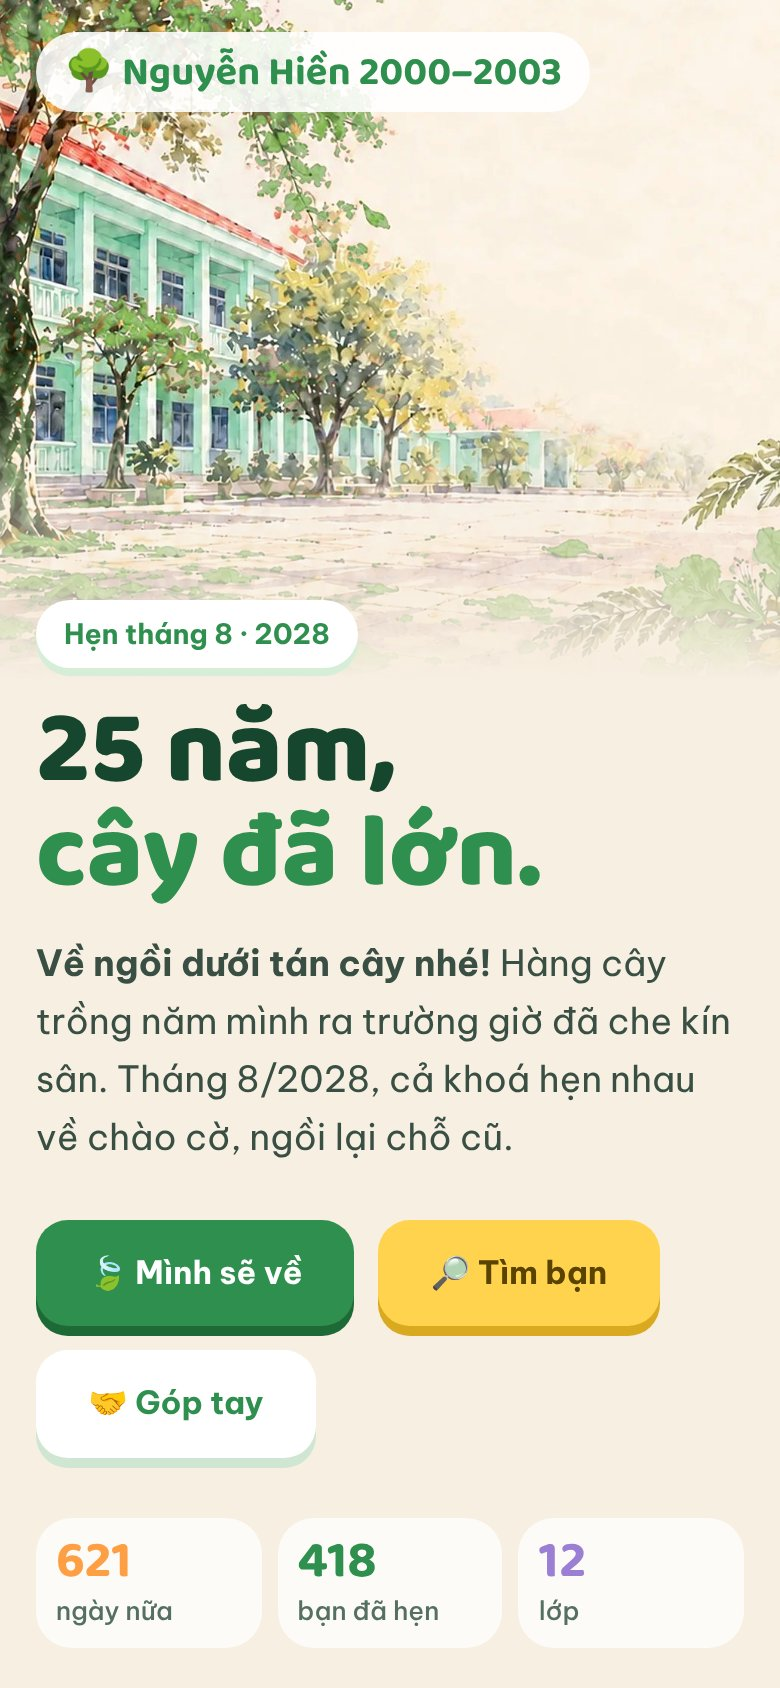
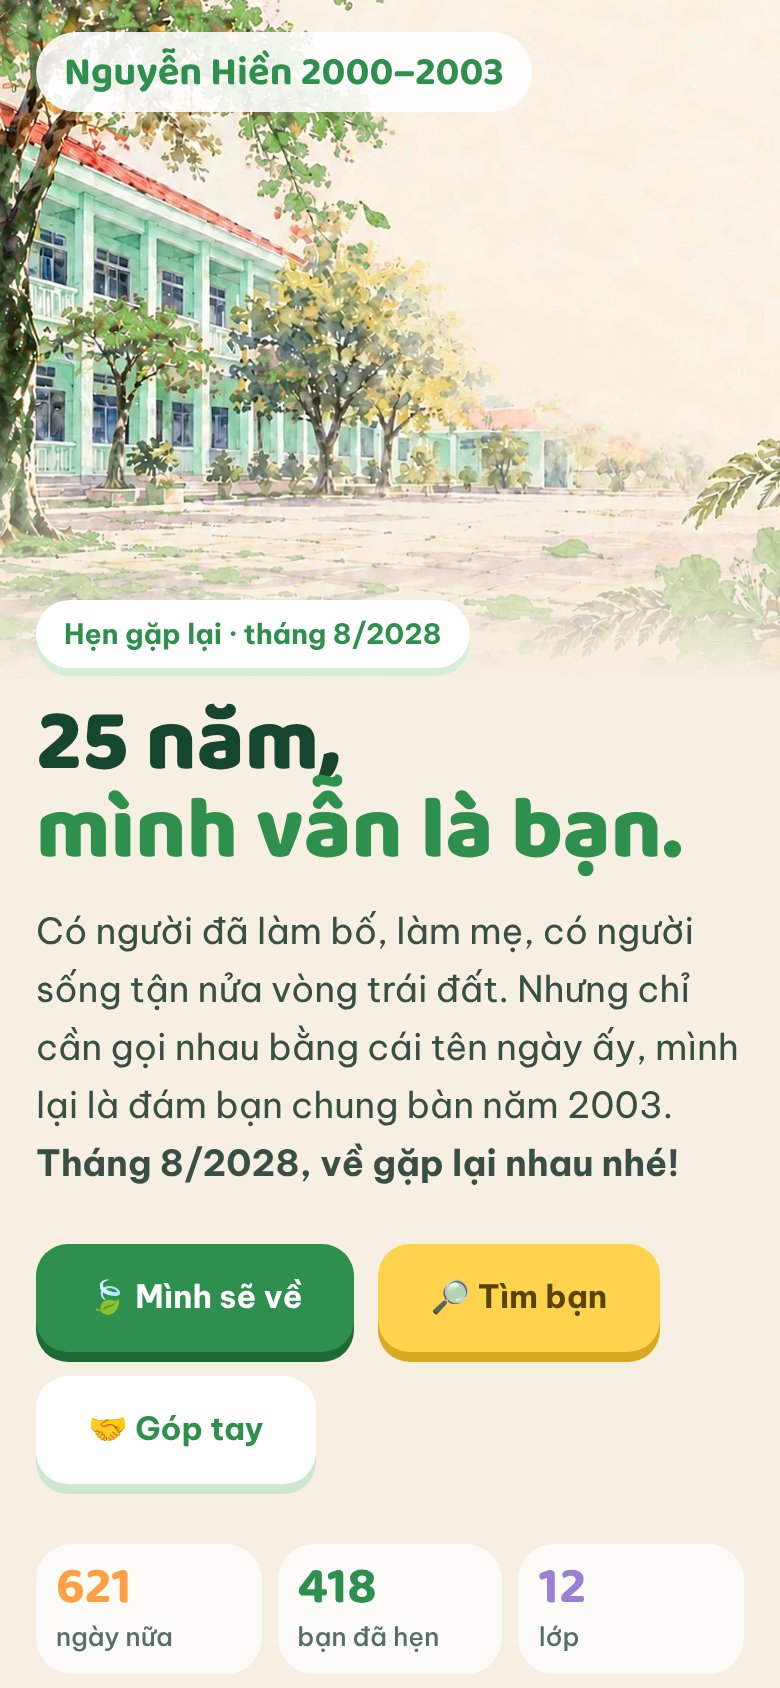
Kết nối 2028: đổi chủ đề sang tình bạn sau 25 năm gặp lại
Claude-Session: https://claude.ai/code/session_01Y1ZWh7bFy81zQtocY5fDHA

diff --git a/thiet-ke/ket-noi-2028/xanh.html b/thiet-ke/ket-noi-2028/xanh.html
@@ -1,5 +1,5 @@
 <!doctype html><html lang="vi"><head><meta charset="utf-8"><meta name="viewport" content="width=device-width,initial-scale=1">
-<title>Kết nối 2028 – Tán cây</title>
+<title>Kết nối 2028 – Bạn hiền</title>
 <link href="https://fonts.googleapis.com/css2?family=Baloo+2:wght@500;600;700;800&family=Be+Vietnam+Pro:wght@400;500;600;700&display=swap" rel="stylesheet">
 <style>
 :root{--la:#2F8F4E;--la2:#5DB860;--non:#A9D86E;--troi:#BDE7F7;--troi2:#E9F7FD;--nang:#FFD34E;--cam:#FF9F43;--tim:#9B7FD4;--hong:#FF8FA3;--go:#7A5236;--dat:#F3FAEE;--chu:#1F3B2D;--phu:#557063}
@@ -131,8 +131,8 @@ a{color:inherit;text-decoration:none}
 .hero2 .anh{position:absolute;inset:0;background:url(san-truong.jpg) left bottom/cover no-repeat}
 .hero2 .anh:after{content:'';position:absolute;inset:0;background:linear-gradient(90deg,rgba(247,239,226,0) 30%,rgba(247,239,226,.55) 52%,rgba(247,239,226,.92) 66%),linear-gradient(0deg,var(--dat) 0,rgba(243,250,238,0) 16%)}
 .hero2 .w{position:relative;z-index:2;min-height:min(820px,100vh);display:flex;justify-content:flex-end;align-items:center;padding-top:80px}
-.chu2{width:min(520px,46%)}
-.hero2 h1{font-size:clamp(50px,6vw,88px);line-height:1;font-weight:800;color:#17462E;margin:16px 0 14px}
+.chu2{width:min(580px,48%)}
+.hero2 h1{font-size:clamp(46px,5.2vw,78px);line-height:1;font-weight:800;color:#17462E;margin:16px 0 14px}
 .hero2 h1 span{color:var(--la)}
 .hero2 p{font-size:18px;color:#3A4F44}
 .pol{position:absolute;background:#fff;padding:10px 10px 34px;box-shadow:0 18px 30px -12px rgba(40,50,30,.45);z-index:3}
@@ -146,8 +146,13 @@ a{color:inherit;text-decoration:none}
  .hero2 .anh{height:340px;bottom:auto;background-position:30% 100%}
  .hero2 .anh:after{background:linear-gradient(0deg,#F7EFE2 0,rgba(247,239,226,0) 40%)}
  .hero2 .w{display:block;padding-top:300px;padding-bottom:40px;min-height:0}
- .chu2{width:auto}.hero2 h1{font-size:52px}
+ .chu2{width:auto}.hero2 h1{font-size:44px}
 }
+.lopb{background:#fff;border-radius:22px;padding:14px 14px 8px;border-top:6px solid var(--c);box-shadow:0 6px 0 #DDEFD9}
+.lopb .tl{display:flex;justify-content:space-between;align-items:baseline}.lopb b{font-family:'Baloo 2';font-size:24px;color:#17462E}.lopb .tl span{font-weight:700;color:var(--phu);font-size:14px}
+.lopb svg{width:100%;height:auto;display:block;margin-top:4px}
+.vuon{align-items:stretch}
+@media(max-width:820px){.vuon{grid-template-columns:repeat(2,1fr)!important}}
 </style></head><body><div id="app"></div>
 <script>
 var M=new URLSearchParams(location.search).get('m')||'pc';
@@ -180,6 +185,10 @@ function chau(l,i){var h=40+l[1]*2.4,c=MAU12[i];sd=i*13+3;
  s+='<circle cx="50" cy="'+(172-h-8)+'" r="11" fill="'+c+'"/><circle cx="50" cy="'+(172-h-8)+'" r="4.5" fill="#FFF4B8"/>';
  s+='<path d="M24 168 H76 L70 200 H30Z" fill="'+c+'"/><rect x="20" y="162" width="60" height="10" rx="4" fill="'+c+'"/><rect x="20" y="162" width="60" height="10" rx="4" fill="#fff" opacity=".25"/></svg>';
  return '<div class="chau"><div class="ca">'+s+'</div><b>'+l[0]+'</b><small>'+l[1]+' bạn</small></div>';}
+function lopBan(l,i){var c=MAU12[i],n=Math.round(l[1]/4),s='<svg viewBox="0 0 120 92">';sd=i*7+1;
+ for(var k=0;k<n;k++){var col=k%5,row=Math.floor(k/5),x=14+col*23+(row%2?11:0),y=78-row*22,m=[c,'#5DB860','#4DB6E8','#FFD34E','#9B7FD4','#FF8FA3'][Math.floor(rd()*6)];
+  s+='<path d="M'+(x-10)+' '+(y+12)+' Q'+x+' '+(y-4)+' '+(x+10)+' '+(y+12)+'Z" fill="'+m+'"/><circle cx="'+x+'" cy="'+(y-6)+'" r="7" fill="#F5D2B4"/><path d="M'+(x-7)+' '+(y-7)+' Q'+x+' '+(y-17)+' '+(x+7)+' '+(y-7)+'" fill="#3B2A20"/>';}
+ return '<div class="lopb" style="--c:'+c+'"><div class="tl"><b>'+l[0]+'</b><span>'+l[1]+'/45</span></div>'+s+'</svg></div>';}
 function banDo(){
  var vn='M150 18 L178 30 L196 58 L214 72 L236 92 L222 110 L204 120 L196 146 L208 176 L226 206 L246 232 L262 256 L280 284 L296 316 L304 352 L300 390 L284 418 L258 438 L230 452 L202 472 L176 496 L150 512 L132 500 L146 476 L172 456 L200 436 L230 410 L246 380 L250 346 L240 312 L222 284 L204 258 L184 232 L166 206 L150 176 L138 150 L124 124 L104 100 L80 82 L66 60 L92 46 L122 36Z';
  var dd=[[188,120,14,'#9B7FD4'],[262,262,186,'#FF9F43'],[206,462,58,'#FF8FA3'],[300,356,7,'#4DB6E8'],[226,206,5,'#4DB6E8'],[284,300,6,'#4DB6E8'],[166,500,3,'#4DB6E8'],[284,404,4,'#4DB6E8']];
@@ -188,35 +197,35 @@ function banDo(){
  dd.forEach(function(d){var r=Math.max(6,Math.sqrt(d[2])*1.8);s+='<circle cx="'+d[0]+'" cy="'+d[1]+'" r="'+f(r)+'" fill="'+d[3]+'" stroke="#fff" stroke-width="4"/>';});
  s+='<text x="350" y="200" font-family="Baloo 2" font-size="20" font-weight="700" fill="#4DA3C9">Biển Đông</text><path d="M340 230 q15 -8 30 0 t30 0 M350 250 q15 -8 30 0 t30 0" stroke="#7FC4E0" stroke-width="3" fill="none" stroke-linecap="round"/>';
  return s+'</svg>';}
-var VIEC=[['📷','Gom ảnh thời đi học','Quét ảnh cũ, gửi về kho ảnh chung.','4 bạn đã nhận','#FFE7C7'],['🎬','Làm phim 25 năm','Dựng phim ngắn “Ngày ấy – Bây giờ”.','2 bạn đã nhận','#E5DBFA'],['🏫','Xin buổi chào cờ','Làm việc với trường cho sáng thứ Hai.','1 bạn đã nhận','#D9F0FB'],['🌳','Trồng cây cho khoá','Chọn chỗ, chọn cây, gắn biển tên khoá.','Chưa ai nhận','#DFF3D6'],['🔎','Tìm bạn còn thiếu','Mỗi lớp nhận tìm 3 bạn chưa liên lạc.','5 bạn đã nhận','#FFE0E6'],['📒','Sổ vàng viết tay','Mỗi người một trang, đóng thành cuốn.','Chưa ai nhận','#FFF3C2']];
+var VIEC=[['📷','Gom ảnh thời đi học','Quét ảnh cũ, gửi về kho ảnh chung.','4 bạn đã nhận','#FFE7C7'],['🎬','Làm phim 25 năm','Dựng phim ngắn “Ngày ấy – Bây giờ”.','2 bạn đã nhận','#E5DBFA'],['🏫','Xin buổi chào cờ','Làm việc với trường cho sáng thứ Hai.','1 bạn đã nhận','#D9F0FB'],['☕','Cà phê gặp mặt lớp','Hẹn một buổi gặp nhỏ của lớp trước ngày lớn.','Chưa ai nhận','#DFF3D6'],['🔎','Tìm bạn còn thiếu','Mỗi lớp nhận tìm 3 bạn chưa liên lạc.','5 bạn đã nhận','#FFE0E6'],['📒','Sổ vàng viết tay','Mỗi người một trang, đóng thành cuốn.','Chưa ai nhận','#FFF3C2']];
 function pc(){var h='';
-h+='<header class="dau"><div class="w"><span class="ten">🌳 Nguyễn Hiền 2000–2003</span><nav><a>Trang chủ</a><a>Các lớp</a><a>Kỷ yếu</a><a>Hình ảnh</a><a>Hoạt động</a><a class="on">Kết nối</a></nav></div></header>';
-h+='<section class="hero2"><div class="anh"></div><div class="w"><div class="chu2"><span class="nhan">Hẹn tháng 8 · 2028</span><h1>25 năm,<br><span>cây đã lớn.</span></h1>'+
- '<p><b>Về ngồi dưới tán cây nhé!</b> Hàng cây trồng năm mình ra trường giờ đã che kín sân. Tháng 8/2028, cả khoá hẹn nhau về chào cờ, ngồi lại chỗ cũ.</p>'+
+h+='<header class="dau"><div class="w"><span class="ten">Nguyễn Hiền 2000–2003</span><nav><a>Trang chủ</a><a>Các lớp</a><a>Kỷ yếu</a><a>Hình ảnh</a><a>Hoạt động</a><a class="on">Kết nối</a></nav></div></header>';
+h+='<section class="hero2"><div class="anh"></div><div class="w"><div class="chu2"><span class="nhan">Hẹn gặp lại · tháng 8/2028</span><h1>25 năm,<br><span>mình vẫn là bạn.</span></h1>'+
+ '<p>Có người đã làm bố, làm mẹ, có người sống tận nửa vòng trái đất. Nhưng chỉ cần gọi nhau bằng cái tên ngày ấy, mình lại là đám bạn chung bàn năm 2003. <b>Tháng 8/2028, về gặp lại nhau nhé!</b></p>'+
  '<div class="nuts"><a class="n xanh">🍃 Mình sẽ về</a><a class="n vang">🔎 Tìm bạn</a><a class="n trang">🤝 Góp tay</a></div>'+
  '<div class="so3"><div><b>621</b>ngày nữa</div><div><b>418</b>bạn đã hẹn</div><div><b>12</b>lớp</div></div></div>'+
- '<div class="pol p1"><img src="anh-1.jpg"><span>Lớp mình, ngày ấy</span></div><div class="pol p2"><img src="anh-2.jpg"><span>Hẹn 2028 nhé!</span></div></div></section>';
-h+='<section class="sec"><div class="w"><div class="td"><span class="nhan">🌱 Vườn 12 lớp</span><h2>Lớp nào cây cao nhất?</h2><p>Mỗi bạn ghi tên, cây của lớp mình mọc thêm một đốt. Chưa cần chắc chắn – cứ hẹn trước đã.</p></div><div class="vuon">';
-LOP.forEach(function(l,i){h+=chau(l,i)});
+ '<div class="pol p1"><img src="anh-1.jpg"><span>Ngày ấy, chung bàn</span></div><div class="pol p2"><img src="anh-2.jpg"><span>Hẹn ngày gặp lại!</span></div></div></section>';
+h+='<section class="sec"><div class="w"><div class="td"><span class="nhan">👋 Điểm danh</span><h2>Lớp nào về đông đủ nhất?</h2><p>Mỗi bạn ghi tên là lớp mình có thêm một gương mặt quen. Chưa cần chắc chắn – cứ hẹn trước đã.</p></div><div class="vuon">';
+LOP.forEach(function(l,i){h+=lopBan(l,i)});
 h+='</div><div class="dk"><div class="o">Họ và tên</div><div class="o">Lớp</div><div class="chip"><span class="on">✅ Chắc chắn</span><span>🤔 Có thể</span><span>✈ Ở xa, sẽ cố</span></div><a class="n xanh">Ghi tên</a></div>'+
  '<div class="thieu"><span>12/6 còn thiếu 9 bạn</span><span>12/3 còn thiếu 8 bạn</span><span>12/5 còn thiếu 6 bạn</span><span style="background:#DFF3D6;color:var(--la)">Giúp tìm</span></div></div></section>';
-h+='<section class="sec bd"><div class="w"><div>'+banDo()+'</div><div><div class="td"><span class="nhan" style="color:#2E7FB0">🗺 Bạn bè ở đâu</span><h2>Rễ ở Đà Nẵng, cành vươn khắp nơi</h2><p>Bấm một chấm để xem ai đang sống ở đó.</p></div>'+
+h+='<section class="sec bd"><div class="w"><div>'+banDo()+'</div><div><div class="td"><span class="nhan" style="color:#2E7FB0">🗺 Bạn bè ở đâu</span><h2>Mỗi đứa một phương, vẫn chung một nhóm</h2><p>Bấm một chấm để xem ai đang ở đó – biết đâu bạn cũ ở ngay gần nhà.</p></div>'+
  '<div class="tp"><div><i style="background:#FFE7C7">🏖</i><span>Đà Nẵng</span><b>186</b></div><div><i style="background:#FFE0E6">🌆</i><span>TP. Hồ Chí Minh</span><b>58</b></div><div><i style="background:#E5DBFA">🏯</i><span>Hà Nội</span><b>14</b></div></div>'+
  '<div class="xa"><span>🇦🇺 Úc 5</span><span>🇺🇸 Mỹ 4</span><span>🇯🇵 Nhật 3</span><span>🇩🇪 Đức 2</span><span>🇸🇬 Singapore 2</span></div></div></div></section>';
 h+='<section class="sec"><div class="w"><div class="td"><span class="nhan">🤝 Góp tay</span><h2>Những việc cần người</h2><p>Không cần góp tiền – chọn một việc vừa sức, Ban liên lạc sẽ nhắn khi tới lúc.</p></div><div class="viec">';
 VIEC.forEach(function(v){h+='<div class="v" style="background:'+v[4]+'"><div class="ic">'+v[0]+'</div><h3>'+v[1]+'</h3><p>'+v[2]+'</p><div class="ft"><span>'+v[3]+'</span><a>'+(v[3][0]=='C'?'Mình nhận':'Nhận cùng')+'</a></div></div>'});
 h+='</div></div></section>';
-h+='<section class="sec thu"><div class="w"><div class="td"><span class="nhan" style="color:#B07800">✉ Thư gửi 2028</span><h2>Viết cho mình của hai năm sau</h2><p>Thư được niêm phong, không ai đọc được cho tới ngày cả khoá cùng mở – dưới tán cây.</p><div class="dem"><b>127</b> lá thư đang chờ</div><a class="n xanh">Viết thư</a></div>'+
- '<div><div class="phong"><span class="tem">25</span><svg class="la" width="80" height="80" viewBox="0 0 80 80"><circle cx="40" cy="40" r="34" fill="#5DB860"/><path d="M26 52 C28 34 40 24 56 24 C56 40 46 52 28 54Z" fill="#fff"/><path d="M28 52 L48 32" stroke="#5DB860" stroke-width="2.5"/></svg></div></div></div></section>';
+h+='<section class="sec thu"><div class="w"><div class="td"><span class="nhan" style="color:#B07800">✉ Thư gửi 2028</span><h2>Gửi người bạn bạn nhớ nhất</h2><p>Viết cho cậu bạn cùng bàn, cô bạn thân ngày ấy. Thư được niêm phong, tới ngày gặp lại mới trao tận tay.</p><div class="dem"><b>127</b> lá thư đang chờ</div><a class="n xanh">Viết thư</a></div>'+
+ '<div><div class="phong"><span class="tem">25</span><svg class="la" width="80" height="80" viewBox="0 0 80 80"><circle cx="40" cy="40" r="34" fill="#FF8FA3"/><path d="M40 56 C22 44 22 30 31 27 C36 25 39 28 40 31 C41 28 44 25 49 27 C58 30 58 44 40 56Z" fill="#fff"/></svg></div></div></div></section>';
 h+='<section class="sec"><div class="w hai"><div class="khung"><h2>🗳 Chọn ngày hẹn</h2>'+
  [['Thứ Hai 14/8/2028 – chào cờ',46,'#C9EBC0'],['Chủ nhật 13/8/2028',31,'#FFE7A8'],['Thứ Bảy 19/8/2028',23,'#E5DBFA']].map(function(x){return '<div class="lc"><i style="width:'+x[1]+'%;background:'+x[2]+'"></i><span>'+x[0]+'</span><b>'+x[1]+'%</b></div>'}).join('')+'<p style="color:var(--phu);font-size:14px">213 bạn đã chọn · đóng ngày 30/11</p></div>'+
  '<div class="khung"><h2>📞 Ban liên lạc</h2>'+[['H','Lê Trung Hiếu','Trưởng ban','#FF9F43'],['T','Hoàng Diệu Thúy','Thư ký','#9B7FD4'],['M','Nguyễn Thị Tuyết Mai','Liên lạc các lớp','#4DB6E8']].map(function(n){return '<div class="ng"><span class="a" style="background:'+n[3]+'">'+n[0]+'</span><span><b>'+n[1]+'</b><small>'+n[2]+'</small></span><span class="g"><a>Gọi</a><a>Zalo</a></span></div>'}).join('')+'</div></div></section>';
 h+='<section class="sec" style="padding-top:0"><div class="w"><div class="td"><span class="nhan">📌 Bảng tin</span><h2>Tin mới</h2></div><div class="tin"><div><small>18/11/2026</small><h3>Ảnh Gala đã đủ 12 lớp</h3><p>Hơn 900 tấm – xem ở trang Hoạt động.</p></div><div><small>01/12/2026</small><h3>Bắt đầu chọn ngày hẹn 2028</h3><p>Ba phương án, mỗi bạn một phiếu.</p></div><div><small>Đang tìm</small><h3>Lớp 12/6 nhờ tìm 9 bạn</h3><p>Bạn nào biết tin, bấm “Tôi biết bạn này”.</p></div></div></div></section>';
-h+='<section class="cuoi"><div class="w"><h2>Hẹn gặp lại dưới tán cây</h2><p>Sân trường Nguyễn Hiền · tháng 8/2028</p></div><svg viewBox="0 0 1440 200" preserveAspectRatio="none">'+
+h+='<section class="cuoi"><div class="w"><h2>Hẹn gặp lại, bạn hiền!</h2><p>Sân trường Nguyễn Hiền · tháng 8/2028</p></div><svg viewBox="0 0 1440 200" preserveAspectRatio="none">'+
  [[120,90,70],[300,110,55],[1150,95,65],[1320,115,50],[720,120,40]].map(function(t){return '<rect x="'+(t[0]-7)+'" y="'+(t[1]+30)+'" width="14" height="80" fill="#7A5236"/><circle cx="'+t[0]+'" cy="'+t[1]+'" r="'+t[2]+'" fill="#5DB860"/><circle cx="'+(t[0]-t[2]*.3)+'" cy="'+(t[1]-t[2]*.3)+'" r="'+(t[2]*.55)+'" fill="#7CC66A"/>'}).join('')+
  '<path d="M0 150 C300 120 600 170 900 140 S1300 130 1440 150 V200 H0Z" fill="#5DB860"/></svg></section>';
 return h;}
-function bang(){var h='<section class="sec pal"><div class="w"><div class="td"><span class="nhan">🎨 Bảng màu</span><h2>Tán cây tháng Tám</h2><p>Xanh lá là màu chính – cây trồng năm 2003 nay đã thành bóng mát. Trời xanh, nắng vàng và những điểm hoa cam, tím, hồng cho tươi vui.</p></div><div class="mau">';
+function bang(){var h='<section class="sec pal"><div class="w"><div class="td"><span class="nhan">🎨 Bảng màu</span><h2>Bạn hiền tháng Tám</h2><p>Xanh lá sân trường là màu chính – nơi đám bạn ngày ấy lớn lên cùng nhau. Trời xanh, nắng vàng và những điểm hoa cam, tím, hồng cho tươi vui.</p></div><div class="mau">';
 [['#2F8F4E','Lá đậm','Nút chính, tiêu đề','#fff'],['#5DB860','Lá non','Tán cây, viền thẻ','#fff'],['#A9D86E','Cỏ','Đồi, bản đồ','#17462E'],['#BDE7F7','Trời','Nền đầu trang, bản đồ','#17462E'],['#FFD34E','Nắng','Nút phụ, mặt trời','#5A4300'],['#FF9F43','Cam','Số đếm, hoa','#fff'],['#9B7FD4','Tím bằng lăng','Hoa, điểm nhấn','#fff'],['#FF8FA3','Hồng','Hoa, điểm nhấn','#fff']].forEach(function(m){h+='<div style="background:'+m[0]+';color:'+m[3]+'"><b>'+m[1]+'</b>'+m[0]+' · '+m[2]+'</div>'});
 return h+'</div><p style="text-align:center;margin-top:30px;color:var(--phu)">Phông tiêu đề <b class="bl" style="font-size:22px;color:#17462E">Baloo 2</b> – tròn, thân thiện · chữ thường Be Vietnam Pro</p></div></section>';}
 document.getElementById('app').innerHTML=M=='bang'?bang():pc();
